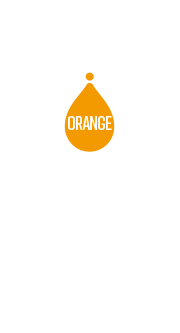
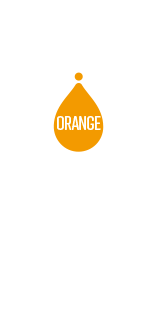
mojo

Changed region(s): [[0.3333, 0.3113, 0.6667, 0.4811], [0.4103, 0.1981, 0.5897, 0.3113]]

diff --git a/MOJO/menu/css/style.css b/MOJO/menu/css/style.css
@@ -131,7 +131,7 @@ nav a:active{
 
 /*CONTENTS-----------------------------------*/
 #contents{
-  background: url(../img/ph_bgMenu.jpg) center top no-repeat;
+  background: url(../img/ph_bgMenu.jpg) left top no-repeat;
   background-attachment: fixed;
   background-size: cover;
   padding: 220px 0 300px;
@@ -170,12 +170,11 @@ nav a:active{
   width: 940px;
 }
 #contents .products{
-  width: 180px;
+  width: 160px;
   height: 100px;
   float: left;
-  padding-top: 250px;
-  margin-left: 8px;
-  margin-bottom: 20px;
+  padding-top: 240px;
+  margin: 0 14px 20px;
 }
 #contents #juPink{
   background: url(../img/bottle_pink.png)left top no-repeat;
@@ -211,7 +210,7 @@ nav a:active{
   font-family: "rift-soft", sans-serif;
   font-size: 12px;
   font-weight: 500;
-  margin-bottom: 10px;
+  margin-bottom: 8px;
 }
 #contents .pink{
   color: #c00e53;
